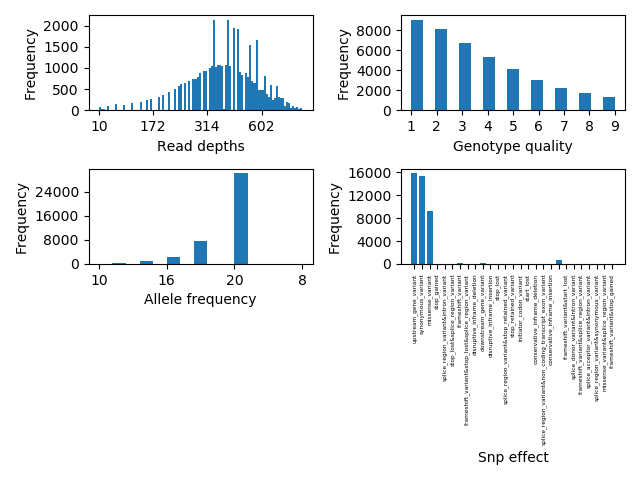
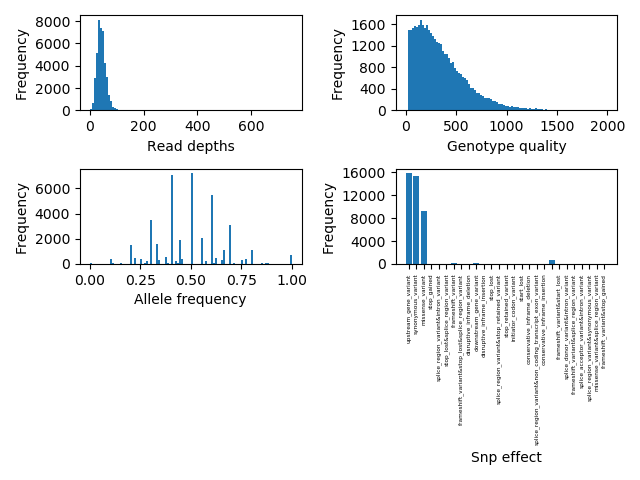
updated code and plots

diff --git a/class3/VariantAnalysisPlots.py b/class3/VariantAnalysisPlots.py
@@ -1,0 +1,80 @@
+#!/usr/bin/env python3
+# Creates script which plots the read depth distribution across each called variant
+# the genotype quality distribution
+# the allele frequency spectrum of your identified variants
+# a summary of the predicted effect of each variant as determined by snpEff (barplot?)
+
+# usage: ./VariantAnalysisPlots.py <snpEff_result_file>
+
+import sys
+import matplotlib.pyplot as plt
+import numpy as np
+
+read_depths = []
+genotype_quality = []
+allele_frequency = []
+#snp_effect = {'upstream_gene_variant': 0, 'downstream_gene_variant': 0, 'non_coding_transcript_exon_variant': 0, 'intron_variant': 0, 'intergenic_region': 0, 'gene_variant': 0, 'exon_variant': 0, 'synonymous_variant': 0, 'stop_retained_variant': 0, 'splice_region_variant': 0, 'missense_variant': 0, 'disruptive_inframe_insertion': 0, 'disruptive_inframe_deletion': 0, 'conservative_inframe_insertion': 0, 'conservative_inframe_deletion': 0, 'stop_lost': 0, 'stop_gained': 0, 'start_lost': 0, 'splice_donor_variant': 0, 'splice_acceptor_variant': 0, 'frameshift_variant': 0 }
+
+snp_effect = {} #alternate way to do it
+
+ 
+for line in open(sys.argv[1]):
+    if line.startswith("#"):
+        continue
+    read_depth_slice = line.rstrip("\n").split(";")[7]
+    read_depth_value = read_depth_slice.split('=')[1]
+    if ',' in read_depth_value:
+        read_depth_value = read_depth_value.split(',')[1]
+    read_depths.append(float(read_depth_value))
+
+    allele_frequency_slice = line.rstrip("\n").split(";")[3]
+    allele_frequency_value = allele_frequency_slice.split('=')[1]
+    if ',' in allele_frequency_value:
+        allele_frequency_value = allele_frequency_value.split(',')[1]
+    allele_frequency.append(float(allele_frequency_value))
+                
+    fields = line.rstrip("\n").split()
+    genotype_quality.append(float(fields[5])) 
+        
+        
+    fields = line.rstrip("\n").split("|")
+    # for key in snp_effect:
+#         if key in fields[1]:
+#             snp_effect[key] += 1
+    if fields[1] not in snp_effect:   #alternate way to do it
+        snp_effect[fields[1]] = 1
+    elif fields[1] in snp_effect:
+        snp_effect[fields[1]] += 1
+
+# print(read_depths)
+# print(allele_frequency)
+# print(genotype_quality)
+
+fig, ax = plt.subplots(2,2)
+ax[0,0].hist(read_depths, range = [0,750], bins = 100)
+ax[0,0].set_xlabel('Read depths')
+# ax[0,0].xaxis.set_major_locator(plt.MaxNLocator(5))
+ax[0,0].yaxis.set_major_locator(plt.MaxNLocator(5))
+ax[0,1].hist(genotype_quality, range = [0,2000], bins = 100)
+ax[0,1].set_xlabel('Genotype quality')
+# ax[0,1].xaxis.set_major_locator(plt.MaxNLocator(9))
+ax[0,1].yaxis.set_major_locator(plt.MaxNLocator(5))
+ax[1,0].hist(allele_frequency, bins = 100)
+ax[1,0].set_xlabel('Allele frequency')
+# ax[1,0].xaxis.set_major_locator(plt.MaxNLocator(4))
+ax[1,0].yaxis.set_major_locator(plt.MaxNLocator(5))
+ax[1,1].bar(snp_effect.keys(), snp_effect.values())
+ax[1,1].set_xlabel('Snp effect')
+ax[1,1].set_xticklabels(snp_effect.keys(), rotation='vertical', fontsize=4.2)
+ax[1,1].yaxis.set_major_locator(plt.MaxNLocator(5))
+for x in ax.flat:
+    x.set(ylabel='Frequency')
+plt.tight_layout()
+fig.savefig("VariantAnalysis.png")
+plt.close(fig)
+
+            
+    
+    
+
+        
